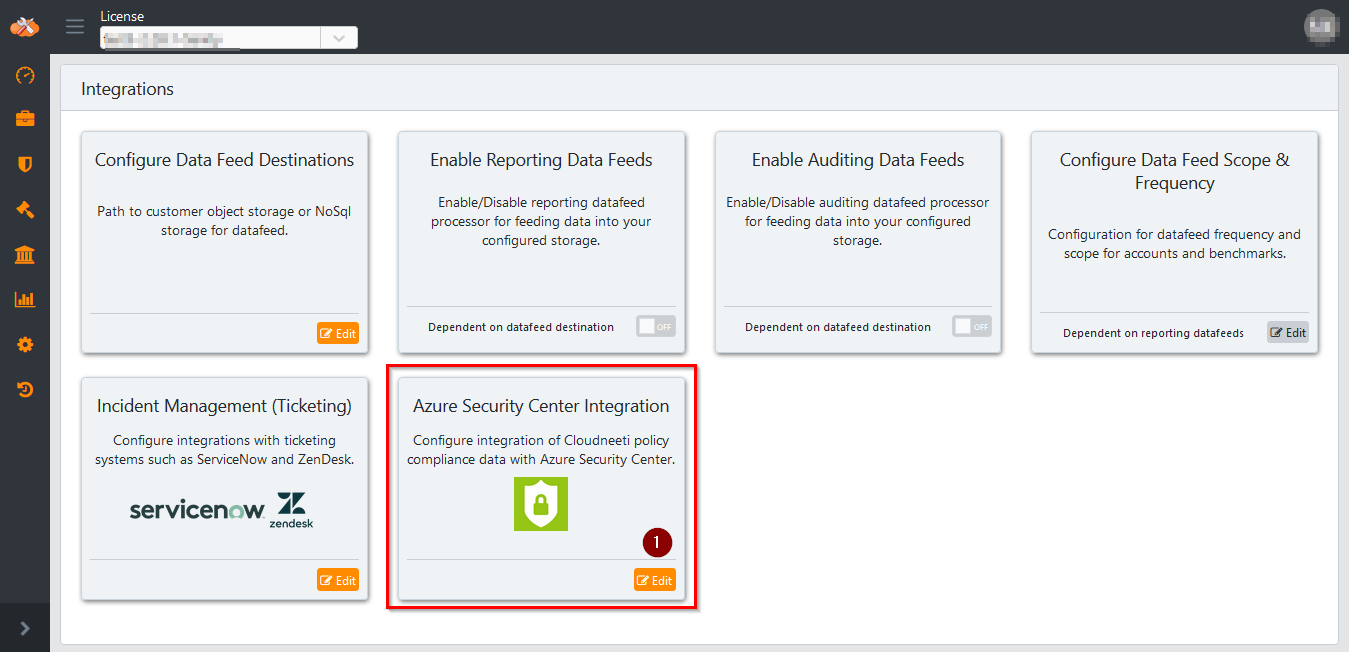
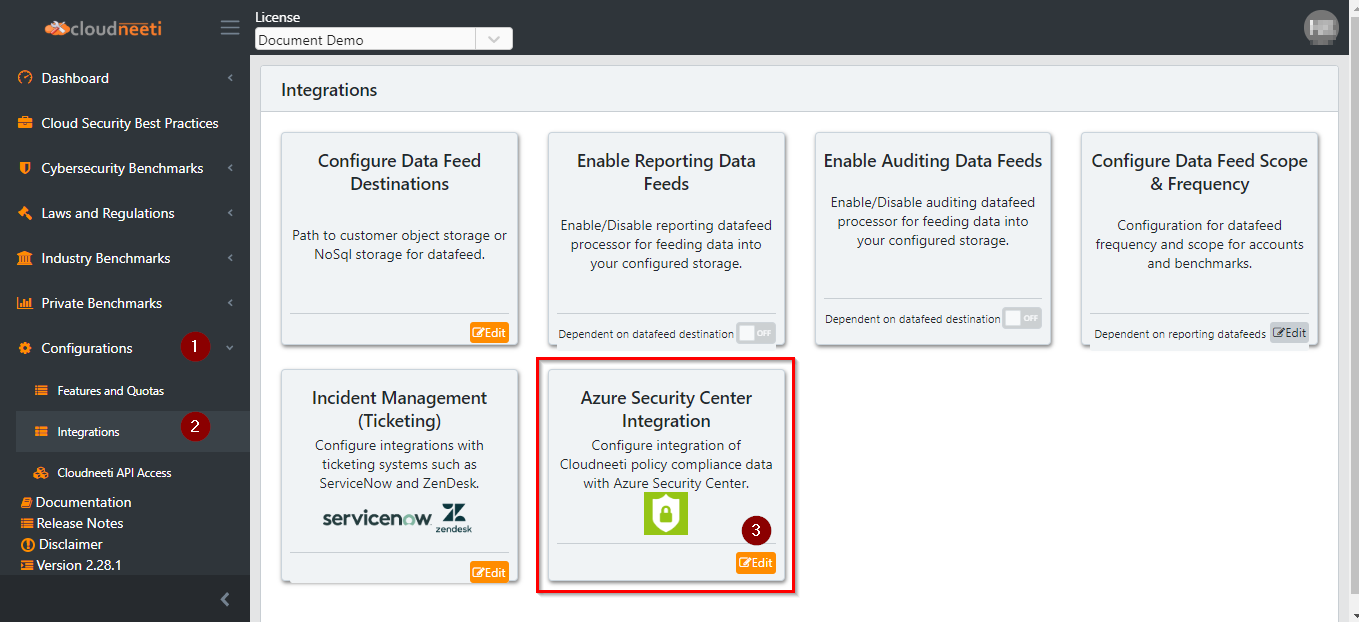
Task 14376 Updates as per UI changes

diff --git a/docs/administratorGuide/azureASCPushIntegration.md b/docs/administratorGuide/azureASCPushIntegration.md
@@ -53,12 +53,9 @@ Login to [Azure Portal](https://portal.azure.com/){target=_blank} with Microsoft
 
 The following steps are done by Cloudneeti **License Admin** role.
 
-1. Navigate to **Integrations** in **Configurations**
+1. Navigate to **Integrations** (2) in **Configurations** (1)
 
-    ![Integrations](.././images/ascPush/integrations_0.png#thumbnail)
-
-
-2. Click **edit** to configure **Azure Security Center Integration**
+2. Click **edit** (3) to configure **Azure Security Center Integration**
 
     ![Integrations](.././images/ascPush/integrations_1.png#thumbnail)
 
@@ -79,7 +76,7 @@ Cloudneeti on successful integration will create recommendations and assessments
 
 ### Recommendations 
 
-1. custom policies 
+1. Custom policies 
 
     ![assessment data ](.././images/ascPush/assessment_data_1.png#thumbnail)
 
